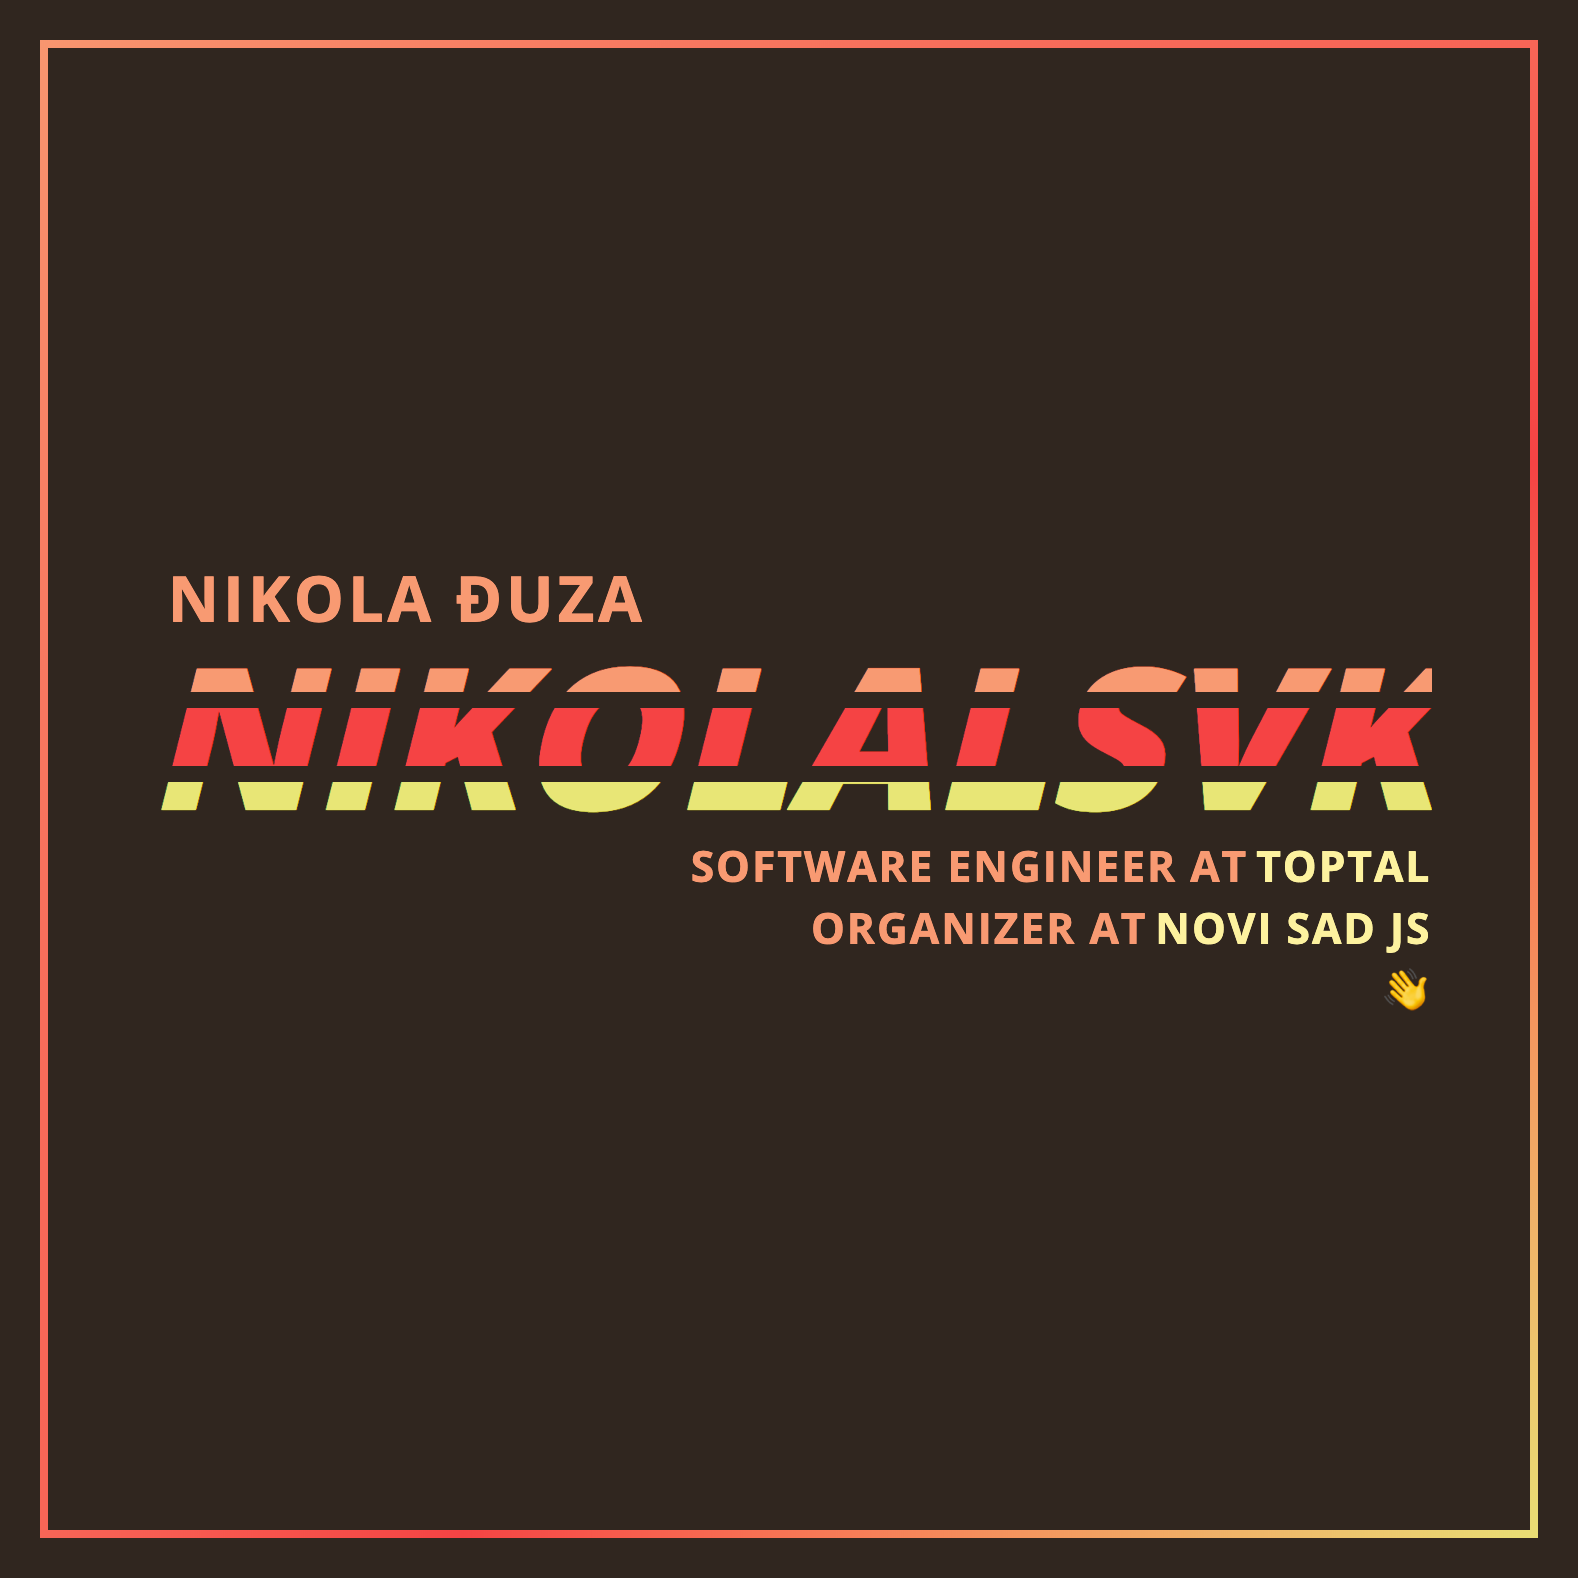
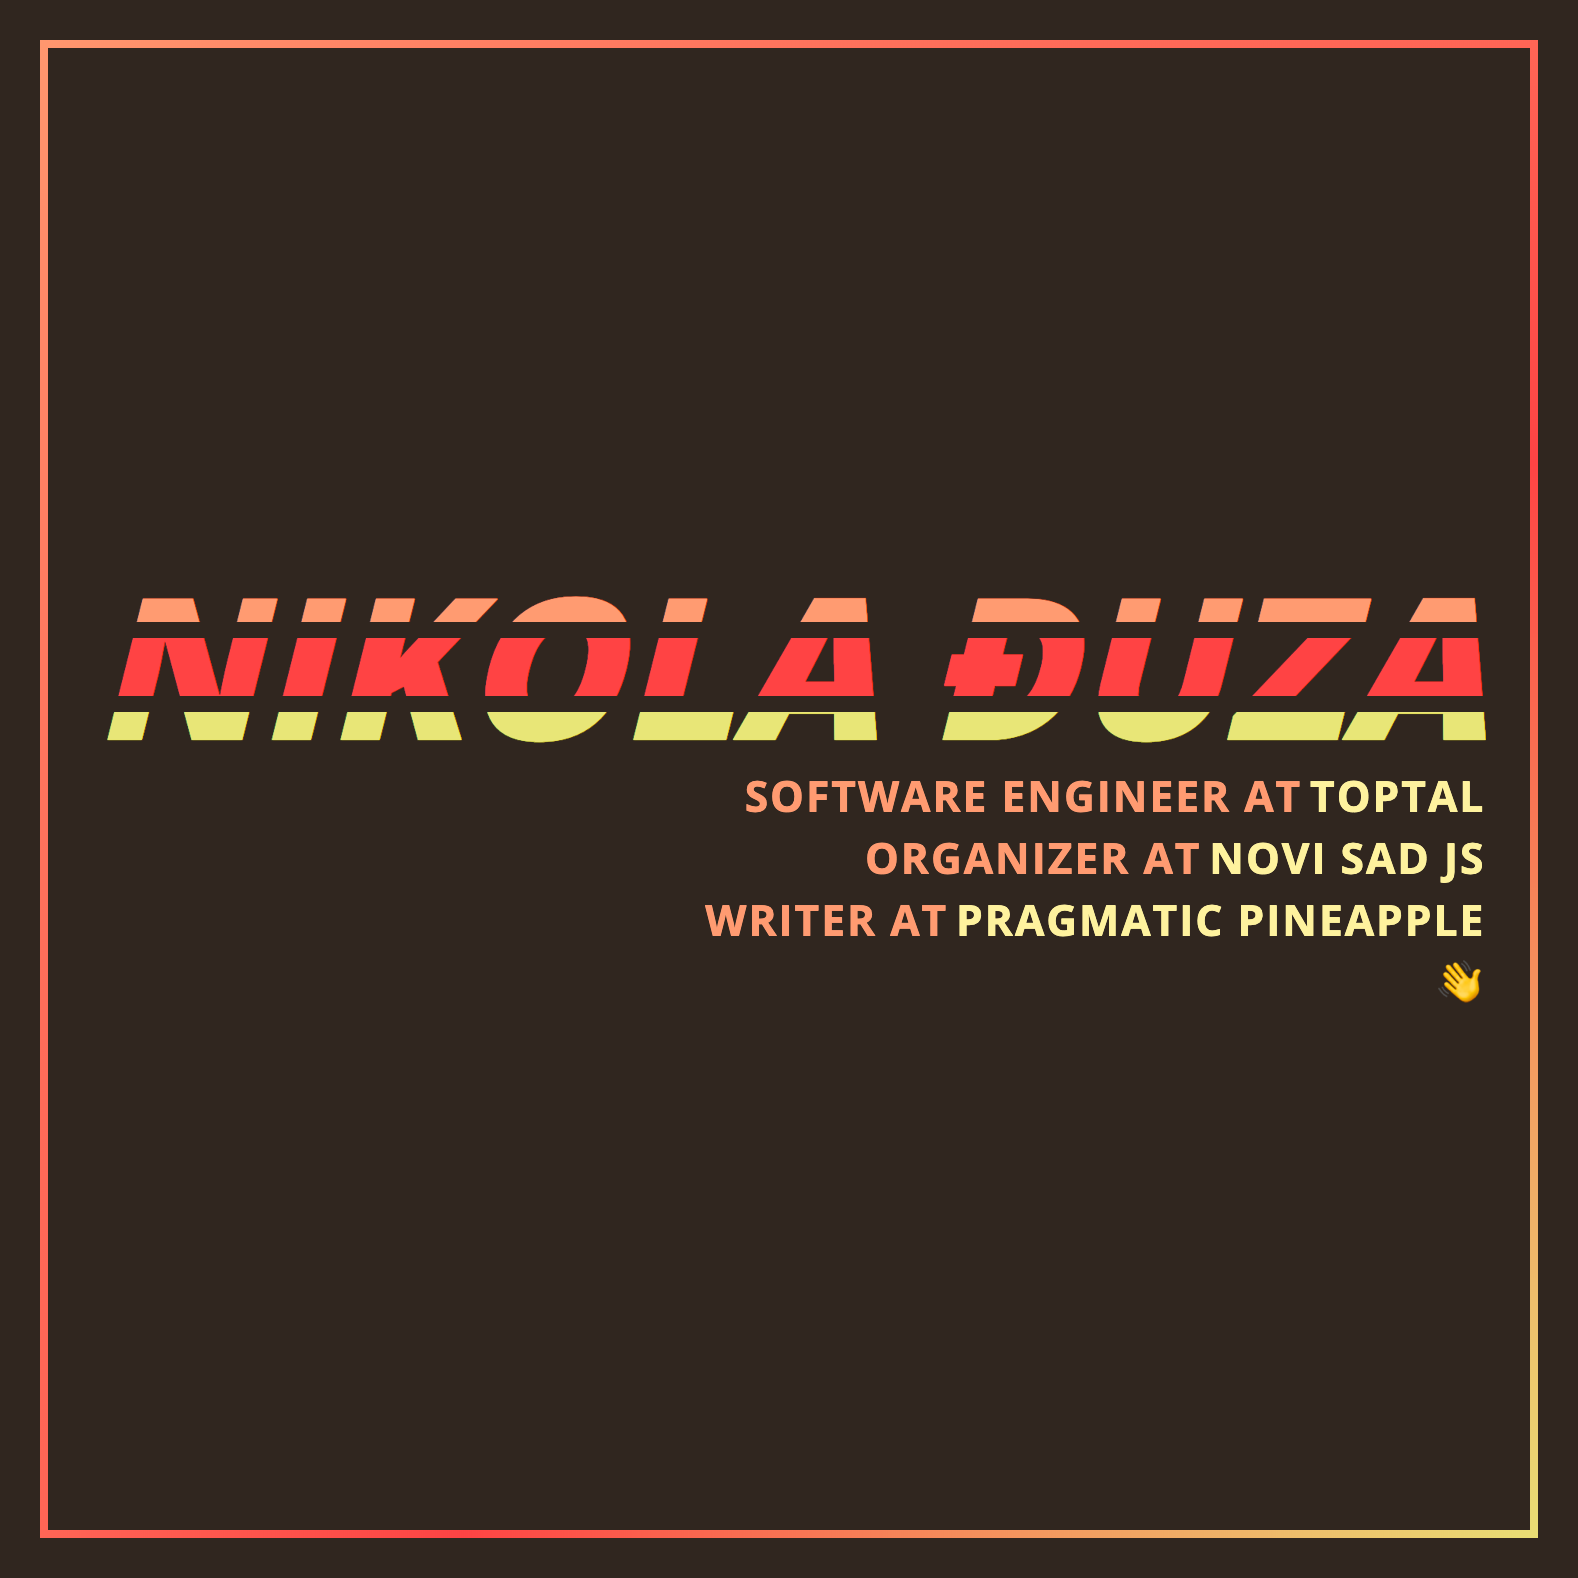
Link to pragmaticpineapple.com

Changed region(s): [[0.0621, 0.3416, 0.9626, 0.6521]]

diff --git a/index.html b/index.html
@@ -42,12 +42,11 @@
 <body>
 
   <div>
-    <h1>Nikola &#272;uza</h1>
     <h2>
       <a href="https://github.com/nikolalsvk">
-        <span><em>nikolalsvk</em></span>
-        <span><em>nikolalsvk</em></span>
-        <span><em>nikolalsvk</em></span>
+        <span><em>nikola đuza</em></span>
+        <span><em>nikola đuza</em></span>
+        <span><em>nikola đuza</em></span>
       </a>
     </h2>
     <ul>
@@ -55,6 +54,9 @@
     </ul>
     <ul>
       <li>Organizer at <a href="https://novisadjs.org">Novi Sad JS</a></li>
+    </ul>
+    <ul>
+      <li>Writer at <a href="https://pragmaticpineapple.com">Pragmatic Pineapple</a></li>
     </ul>
     <ul>
       <li></li>
